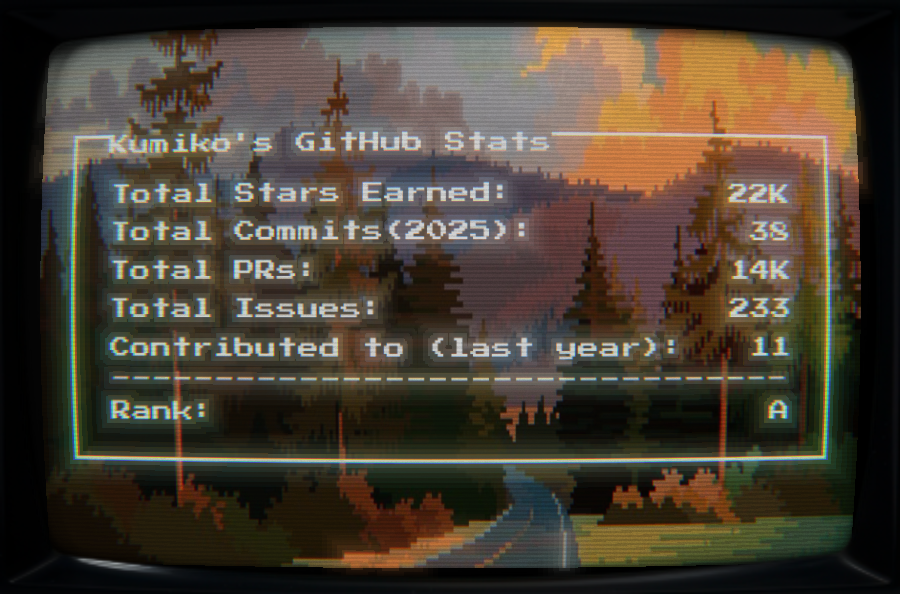
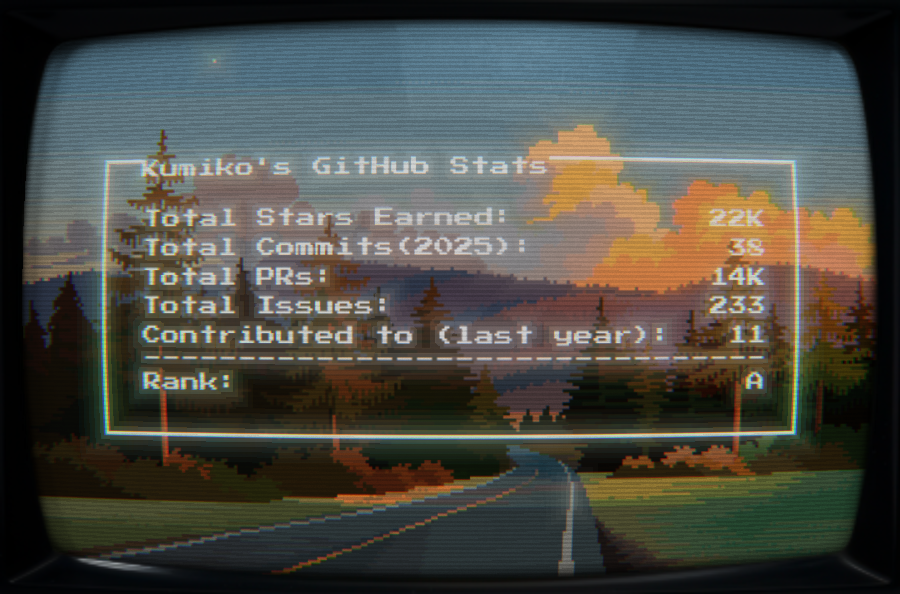
chore: test

diff --git a/README.md b/README.md
@@ -1,5 +1,5 @@
 <picture decoding="async" loading="lazy">
-  <source media="(prefers-color-scheme: light)" srcset="https://raw.githubusercontent.com/LuciNyan/LuciNyan/output/github-stats.png">
-  <source media="(prefers-color-scheme: dark)" srcset="https://raw.githubusercontent.com/LuciNyan/LuciNyan/output/github-stats-dark.png">
+  <source media="(prefers-color-scheme: light)" srcset="./test.png">
+  <source media="(prefers-color-scheme: dark)" srcset="./test.png">
   <img alt="github stats" src="https://pixel-profile.vercel.app/api/github-stats?username=LuciNyan&screen_effect=false&theme=fuji&hide=avatar&dithering=true">
 </picture>
